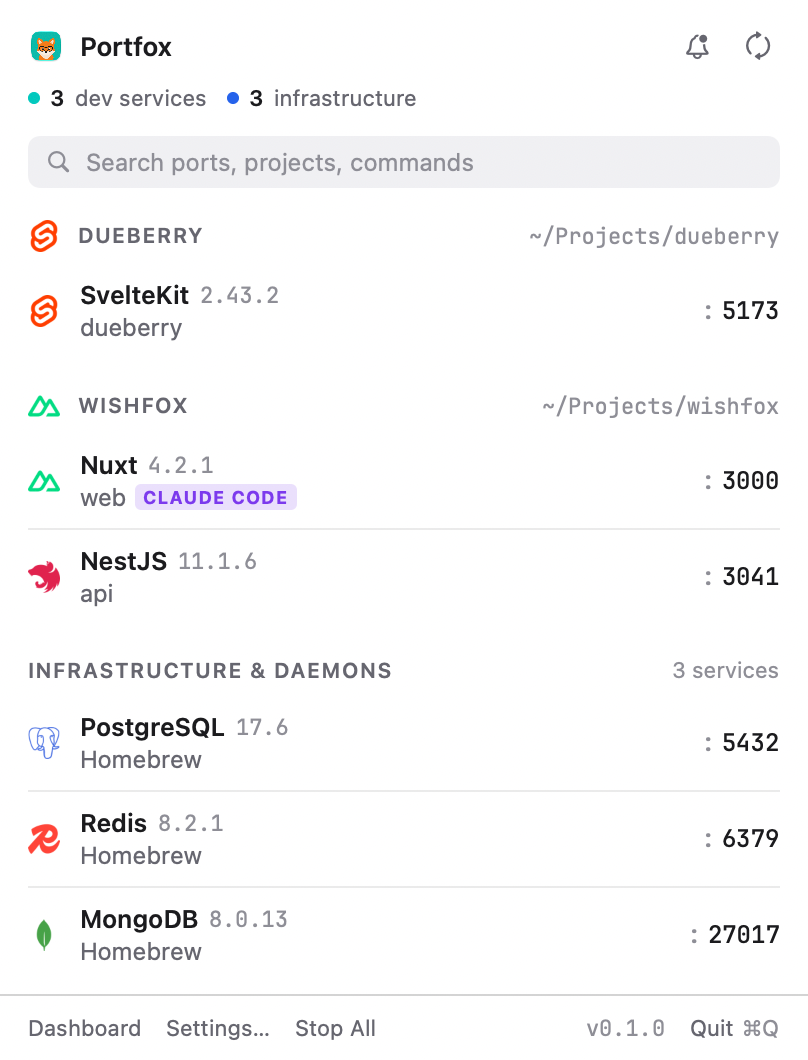
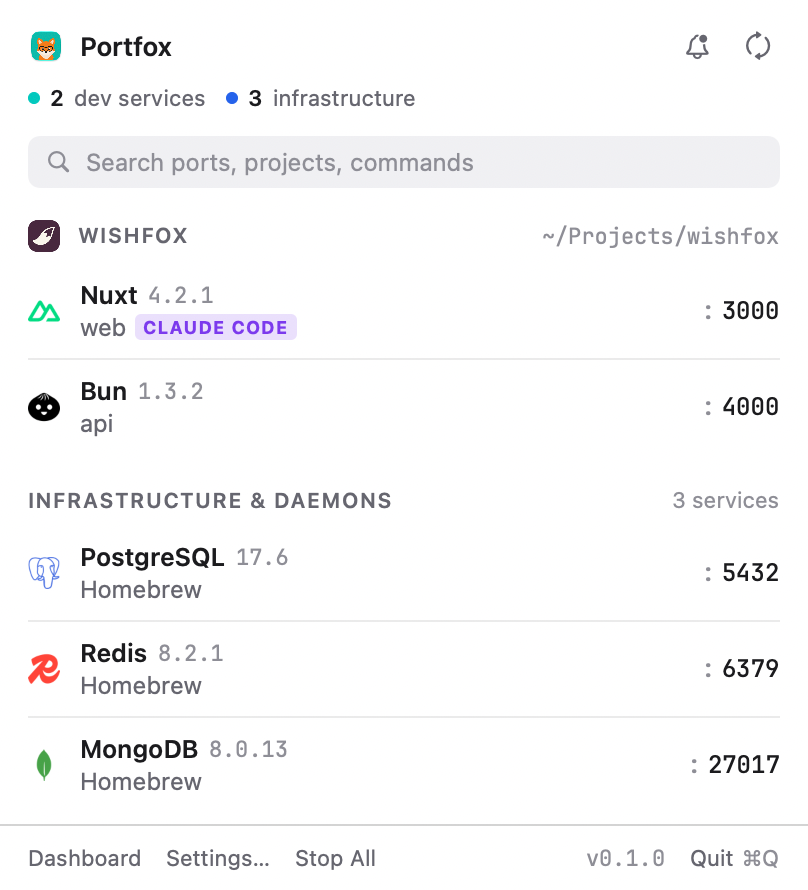
docs: show Wishfox with Nuxt and Bun in the demo screenshots

diff --git a/App/Portfox/SnapshotFixture.swift b/App/Portfox/SnapshotFixture.swift
@@ -2,13 +2,13 @@ import Foundation
 import PortfoxKit
 
 /// The machine `--demo` renders instead of this one: a monorepo with an agent
-/// started server, a second project, and the daemons most machines carry.
-/// The README screenshot comes from here, so it never shows a real project.
+/// started server and the daemons most machines carry. The README screenshot
+/// comes from here, so it never shows a real project. The project icon is a
+/// bundled PNG, because a real one is read from the project folder on disk.
 enum SnapshotFixture {
     static func result() -> ScanResult {
         let projects = FileManager.default.homeDirectoryForCurrentUser.appendingPathComponent("Projects")
         let wishfox = projects.appendingPathComponent("wishfox")
-        let dueberry = projects.appendingPathComponent("dueberry")
 
         let developed = [
             service(
@@ -17,14 +17,9 @@ enum SnapshotFixture {
                 project: project(wishfox, subpath: "web"), origin: .agent(.claudeCode)
             ),
             service(
-                .nestJS, "11.1.6", pid: 4243, port: 3041,
-                command: ["/opt/homebrew/bin/node", "dist/main.js"],
+                .bun, "1.3.2", pid: 4243, port: 4000,
+                command: ["/opt/homebrew/bin/bun", "--watch", "src/index.ts"],
                 project: project(wishfox, subpath: "api")
-            ),
-            service(
-                .svelteKit, "2.43.2", pid: 4244, port: 5173,
-                command: ["/opt/homebrew/bin/node", "node_modules/.bin/vite", "dev"],
-                project: project(dueberry)
             )
         ]
         let daemons = [
@@ -52,7 +47,8 @@ enum SnapshotFixture {
             serviceDirectory: subpath.map(root.appendingPathComponent) ?? root,
             name: root.lastPathComponent,
             subpath: subpath,
-            rootKind: .workspace
+            rootKind: .workspace,
+            iconPath: Bundle.main.path(forResource: "DemoProjectIcon", ofType: "png")
         )
     }
 
